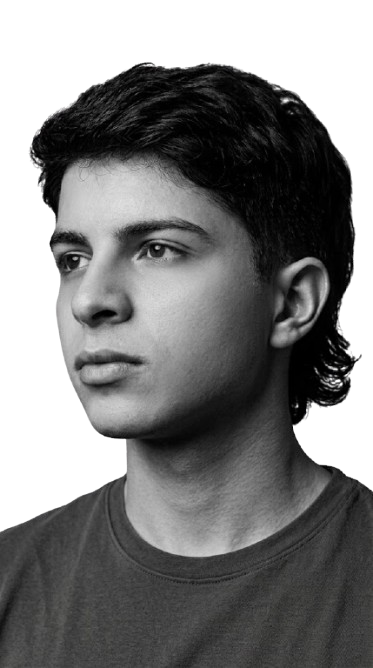
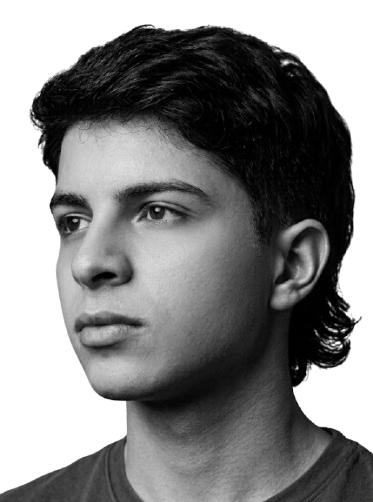
Hero: usar imagenes ajustadas 373x502 (perfil/perfilgafas), alinear rostros, suavizar borde superior y actualizar cache-busting

diff --git a/index.html b/index.html
@@ -224,10 +224,11 @@ html.lenis, html.lenis body{ height:auto }
 /* ============================ HERO ============================ */
 .hero{ position:relative; isolation:isolate; overflow:hidden; border-radius:0 0 2rem 2rem; background:var(--hero-to) }
 .liquid{ position:absolute; inset:0; z-index:0; overflow:hidden; display:flex; align-items:center; justify-content:center }
-.liquid-stage{ position:relative; height:70%; aspect-ratio:373 / 668; max-width:80%; max-height:44rem }
+.liquid-stage{ position:relative; height:70%; aspect-ratio:373 / 502; max-width:80%; max-height:44rem }
 .liquid-base{ position:absolute; inset:0; width:100%; height:100%; object-fit:contain; filter:drop-shadow(0 30px 60px rgba(0,0,0,.55));
-  -webkit-mask-image:linear-gradient(to bottom, transparent 0%, #000 9%); mask-image:linear-gradient(to bottom, transparent 0%, #000 9%) }
-.liquid-canvas{ position:absolute; inset:0; width:100%; height:100%; pointer-events:none }
+  -webkit-mask-image:linear-gradient(to bottom, transparent 0%, #000 2%); mask-image:linear-gradient(to bottom, transparent 0%, #000 2%) }
+.liquid-canvas{ position:absolute; inset:0; width:100%; height:100%; pointer-events:none;
+  -webkit-mask-image:linear-gradient(to bottom, transparent 0%, #000 2%); mask-image:linear-gradient(to bottom, transparent 0%, #000 2%) }
 .hero-vignette{ position:absolute; inset:0; z-index:1; pointer-events:none;
   background:linear-gradient(to bottom, rgba(8,8,10,.62), transparent 45%, rgba(8,8,10,.78)) }
 .hero-watermark{
@@ -594,7 +595,7 @@ textarea.field-input{ resize:none }
   <section class="hero" id="home">
     <div class="liquid" id="liquid">
       <div class="liquid-stage" id="liquidStage">
-        <img class="liquid-base" src="Imagenes/perfil.png?v=2" alt="Juan Esteban Henao" fetchpriority="high" />
+        <img class="liquid-base" src="Imagenes/perfil.png?v=3" alt="Juan Esteban Henao" fetchpriority="high" />
         <canvas class="liquid-canvas" id="liquidCanvas" aria-hidden="true"></canvas>
       </div>
     </div>
@@ -1305,8 +1306,8 @@ setInterval(updateClock, 1000);
   const ctx = canvas.getContext('2d');
 
   // Mapping: base (always visible / LCP) = perfil.png (transparent), brush paint (revealed on hover) = perfilgafas.png (transparent)
-  const beforeSrc = 'Imagenes/perfil.png?v=2';
-  const afterSrc  = 'Imagenes/perfilgafas.png?v=2';
+  const beforeSrc = 'Imagenes/perfil.png?v=3';
+  const afterSrc  = 'Imagenes/perfilgafas.png?v=3';
 
   const BRUSH_RADIUS = 143;
   const DECAY = 0.016;
@@ -1335,8 +1336,10 @@ setInterval(updateClock, 1000);
     const W = cover.width, H = cover.height;
     const s = Math.min(W / img.naturalWidth, H / img.naturalHeight);
     const dw = img.naturalWidth * s, dh = img.naturalHeight * s;
+    // Alinea el rostro de perfilgafas (contenido en y=4) con perfil.png (contenido en y=25)
+    const ALIGN = 21;
     coverCtx.clearRect(0, 0, W, H);
-    coverCtx.drawImage(img, (W - dw) / 2, (H - dh) / 2, dw, dh);
+    coverCtx.drawImage(img, (W - dw) / 2, (H - dh) / 2 + ALIGN * s, dw, dh);
   }
 
   function measure(){
